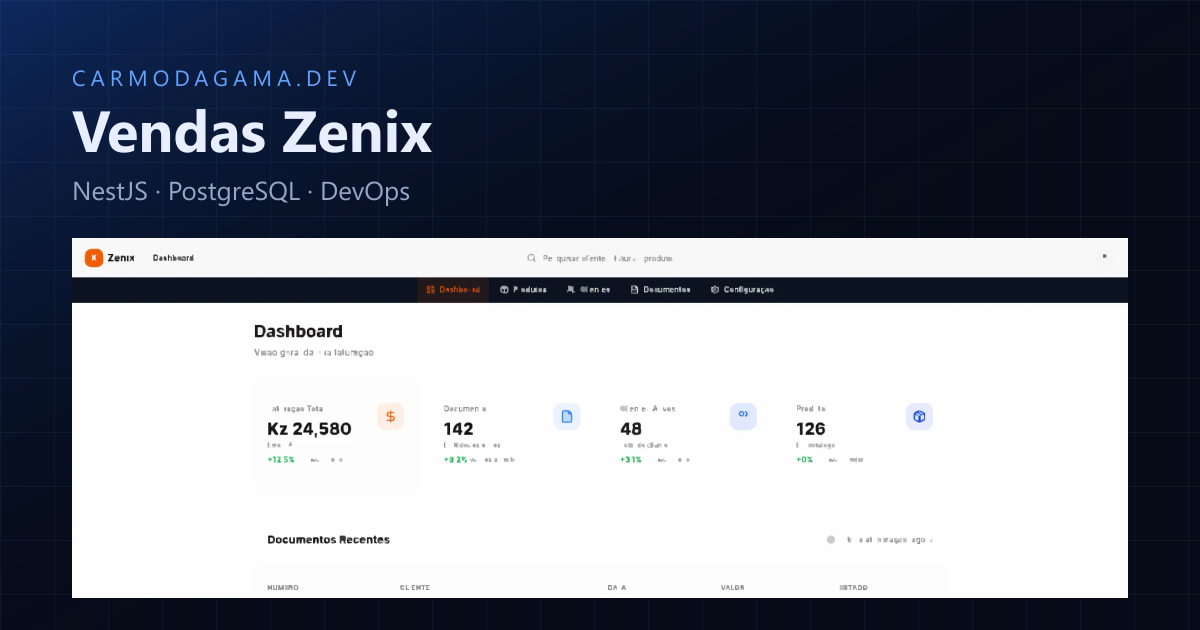
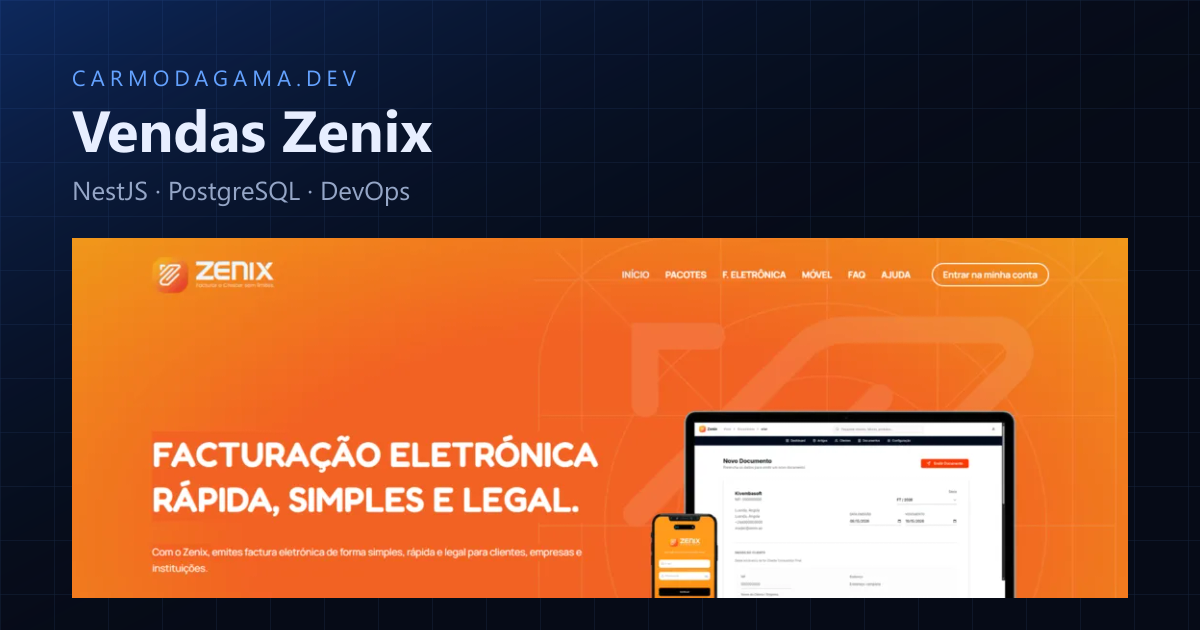
Refactor code structure for improved readability and maintainability

diff --git a/src/i18n/translations.js b/src/i18n/translations.js
@@ -213,7 +213,7 @@ export const translations = {
           id: 'zenix',
           name: 'Vendas Zenix',
           description: 'Problem: fragmented accounting and invoicing systems created data silos, manual reconciliation errors and tax-compliance risk. Solution: a unified, API-first platform integrating entities, products, taxes, invoicing and financial reconciliation, with automatic compliance (SAF-T export, multi-tenant support). My role: I architected the domain-driven NestJS backend, designed RBAC access control, optimised queries with Redis caching for a high-transaction environment, and led the DevOps setup (Docker, CI/CD). Results: in enterprise use, with end-to-end auditable invoicing and reconciliation. Stack: NestJS, TypeScript, PostgreSQL, Redis, Docker, CI/CD (Azure DevOps).',
-          url: 'https://express.zenix.ao/',
+          url: 'https://zenix.ao/',
           tags: ['NestJS', 'PostgreSQL', 'DevOps'],
         },
         {
@@ -495,7 +495,7 @@ export const translations = {
           id: 'zenix',
           name: 'Zenix',
           description: 'Problema: sistemas de contabilidade e faturação fragmentados criavam silos de dados, erros de reconciliação manual e risco de incumprimento fiscal. Solução: uma plataforma unificada, API-first, que integra entidades, produtos, impostos, faturação e reconciliação financeira, com conformidade automática (exportação SAF-T, suporte multi-tenant). O meu papel: arquitetei o backend em NestJS orientado ao domínio, desenhei o controlo de acesso RBAC, otimizei consultas com cache em Redis para ambiente de alta transação e liderei o setup de DevOps (Docker, CI/CD). Resultados: em uso empresarial, com emissão e reconciliação de faturas auditáveis de ponta a ponta. Stack: NestJS, TypeScript, PostgreSQL, Redis, Docker, CI/CD (Azure DevOps).',
-          url: 'https://express.zenix.ao/',
+          url: 'https://zenix.ao/',
           tags: ['NestJS', 'PostgreSQL', 'DevOps'],
         },
         {
